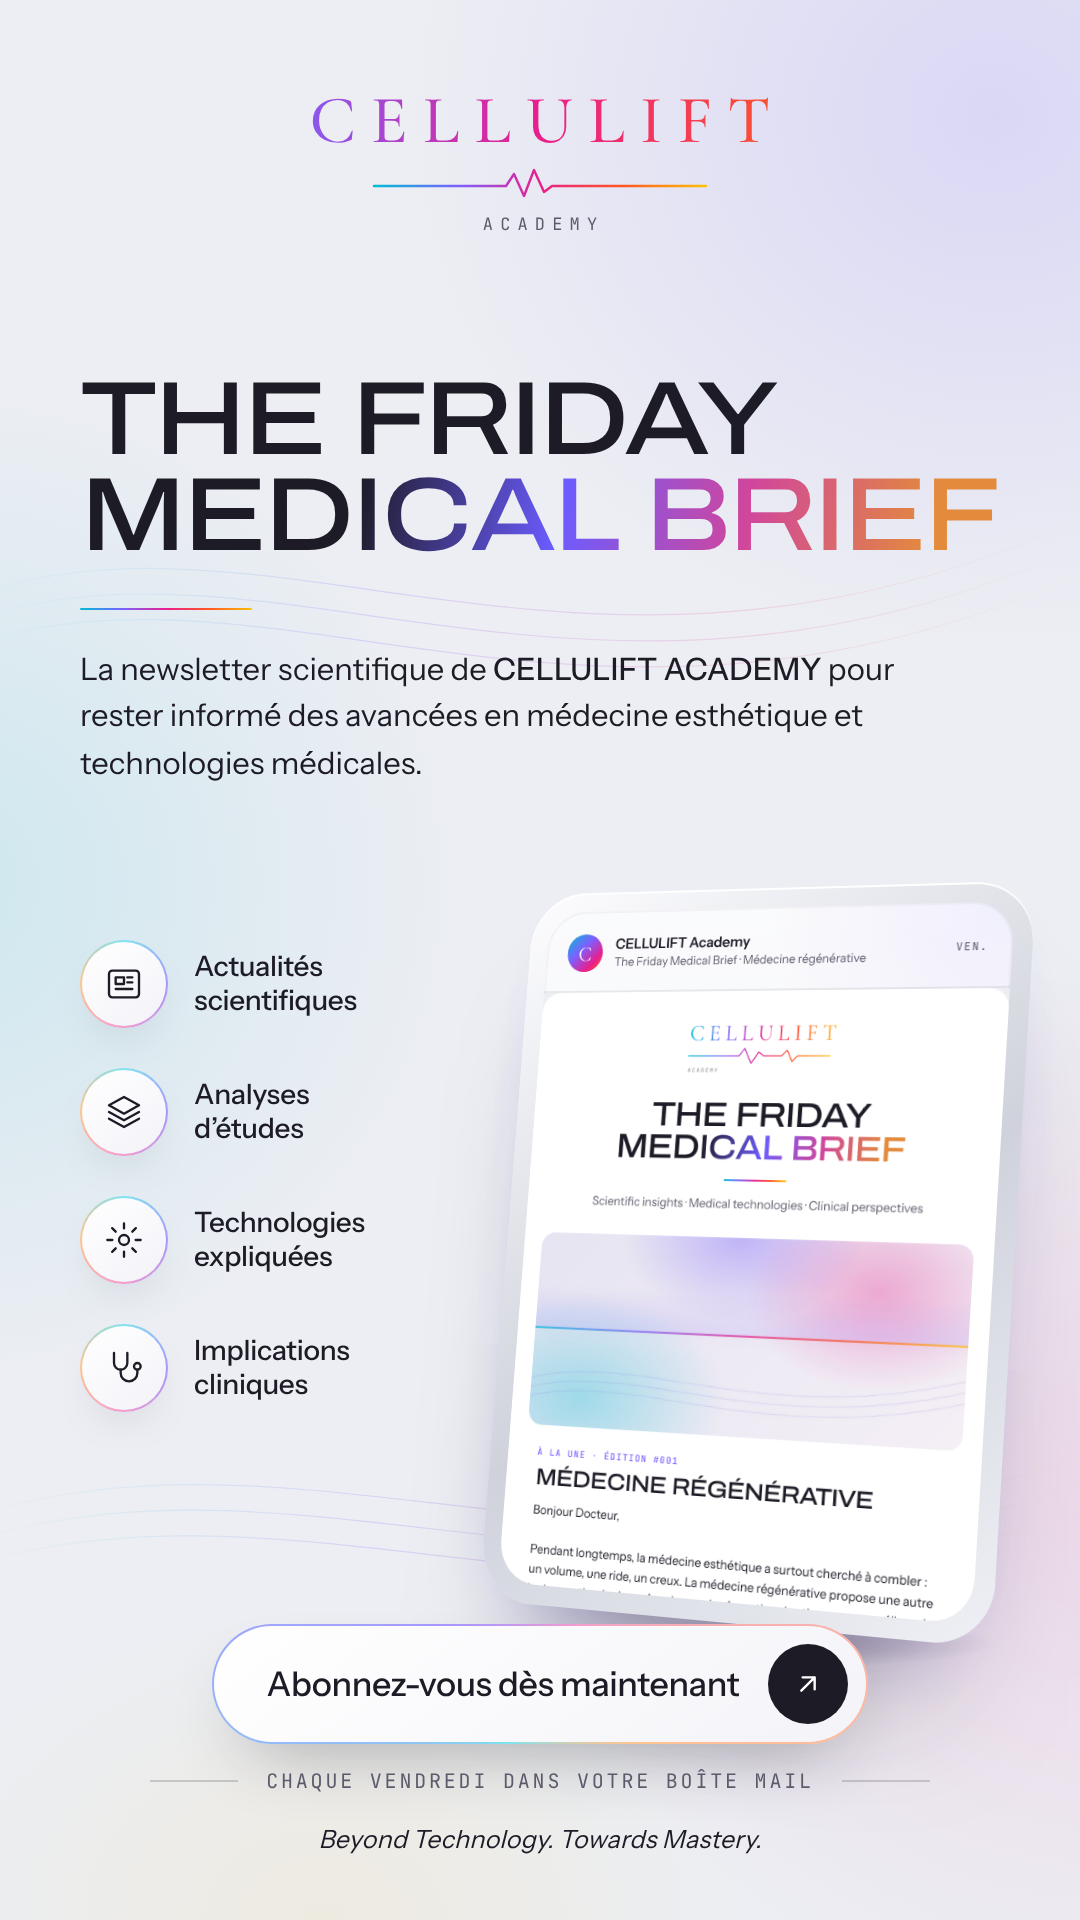
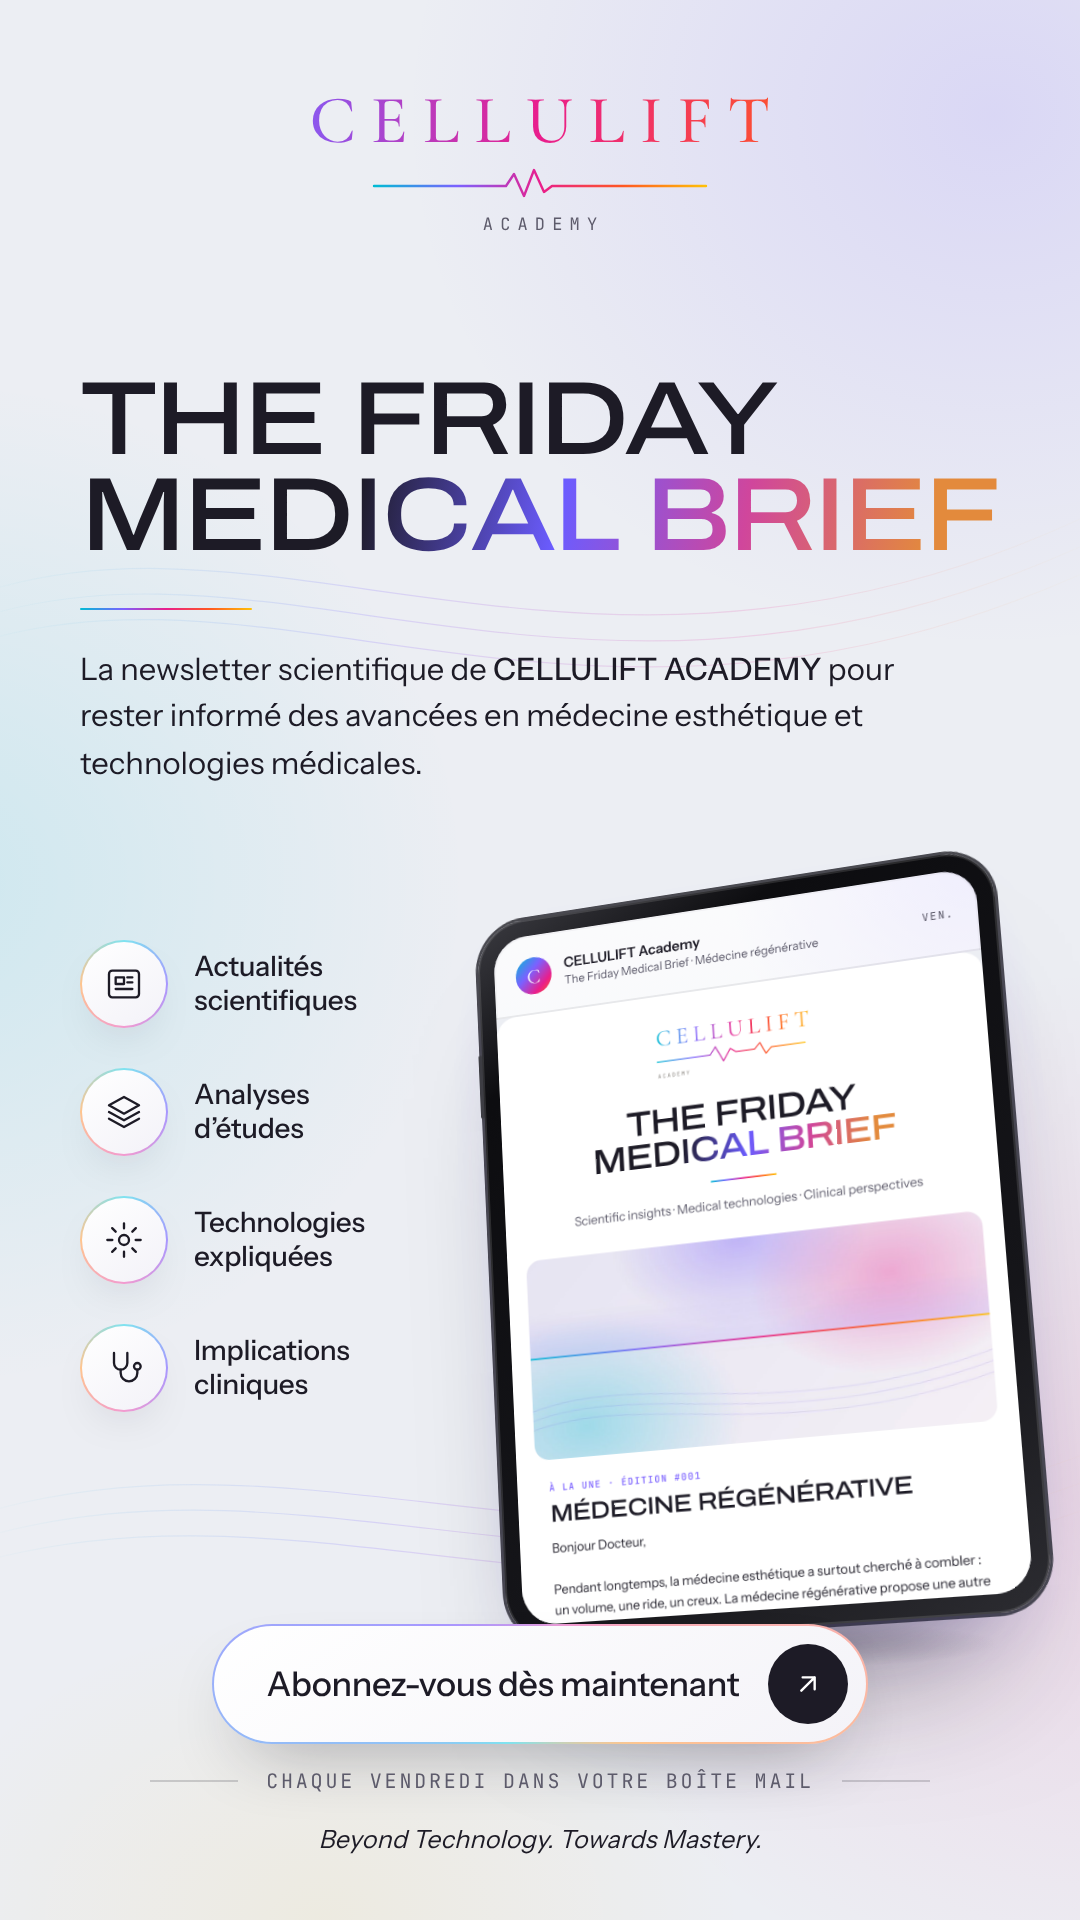
Newsletter : iPad noir incliné pour le visuel story, version Brevo du modèle (emplacements d'image)
Claude-Session: https://claude.ai/code/session_013WzSXnYZRENhXh8EE8VY2P

Changed region(s): [[0.4278, 0.4375, 0.9778, 0.875], [0.7333, 0.6875, 0.8556, 0.7188], [0.6417, 0.6875, 0.6722, 0.7188]]

diff --git a/academy/newsletter/email/friday-medical-brief-brevo.html b/academy/newsletter/email/friday-medical-brief-brevo.html
@@ -1,0 +1,182 @@
+<!doctype html>
+<html lang="fr" xmlns="http://www.w3.org/1999/xhtml" xmlns:v="urn:schemas-microsoft-com:vml" xmlns:o="urn:schemas-microsoft-com:office:office">
+<head>
+<meta charset="utf-8">
+<meta name="viewport" content="width=device-width, initial-scale=1">
+<meta http-equiv="X-UA-Compatible" content="IE=edge">
+<meta name="x-apple-disable-message-reformatting">
+<meta name="color-scheme" content="light only">
+<meta name="supported-color-schemes" content="light only">
+<title>The Friday Medical Brief · Édition #001 · Médecine régénérative</title>
+<!--[if mso]><noscript><xml><o:OfficeDocumentSettings><o:PixelsPerInch>96</o:PixelsPerInch></o:OfficeDocumentSettings></xml></noscript><![endif]-->
+<link href="https://fonts.googleapis.com/css2?family=Archivo:wdth,wght@100..125,500&family=Instrument+Sans:wght@300;400;500;600&family=JetBrains+Mono:wght@500&display=swap" rel="stylesheet">
+<style>
+  body,table,td,a{-webkit-text-size-adjust:100%;-ms-text-size-adjust:100%}
+  table,td{mso-table-lspace:0;mso-table-rspace:0;border-collapse:collapse}
+  img{border:0;outline:none;text-decoration:none;-ms-interpolation-mode:bicubic;display:block}
+  body{margin:0!important;padding:0!important;width:100%!important;background:#ECEEF3}
+  a{color:#1D1B26}
+  .sans{font-family:'Instrument Sans',Helvetica,Arial,sans-serif}
+  .disp{font-family:'Archivo','Arial Narrow',Arial,sans-serif;font-stretch:118%;text-transform:uppercase;letter-spacing:-.035em}
+  .mono{font-family:'JetBrains Mono',Consolas,'Courier New',monospace;text-transform:uppercase;letter-spacing:.14em}
+  .iris{background:linear-gradient(100deg,#1D1B26 0%,#1D1B26 30%,#6B5CFF 52%,#D0469C 72%,#E38A3C 92%);-webkit-background-clip:text;background-clip:text;color:transparent!important}
+  @media screen and (max-width:620px){
+    .container{width:100%!important}
+    .px{padding-left:22px!important;padding-right:22px!important}
+    .h1{font-size:34px!important}
+    .h2{font-size:22px!important}
+    .stack,.stack td{display:block!important;width:100%!important}
+    .hero img{width:100%!important;height:auto!important}
+  }
+</style>
+</head>
+<body style="margin:0;padding:0;background:#ECEEF3">
+
+<!-- Pré-en-tête (texte d'aperçu dans la boîte de réception) -->
+<div style="display:none;max-height:0;overflow:hidden;mso-hide:all;font-size:1px;line-height:1px;color:#ECEEF3">
+  Médecine régénérative&nbsp;: stimuler plutôt que combler. Actualités, analyse d’étude et implications cliniques.&#847;&zwnj;&nbsp;&#847;&zwnj;&nbsp;&#847;&zwnj;&nbsp;&#847;&zwnj;&nbsp;
+</div>
+
+<table role="presentation" width="100%" cellpadding="0" cellspacing="0" border="0" bgcolor="#ECEEF3" style="background:#ECEEF3">
+<tr><td align="center" style="padding:24px 12px 40px">
+
+  <table role="presentation" class="container" width="600" cellpadding="0" cellspacing="0" border="0" style="width:600px;max-width:600px">
+
+    <!-- Lien miroir -->
+    <tr><td align="center" class="sans" style="padding:0 0 16px;font-size:11px;color:#5D5B6B">
+      Édition #001 · Vendredi &nbsp;·&nbsp; <a href="{{ mirror }}" style="color:#5D5B6B;text-decoration:underline">Voir dans le navigateur</a>
+    </td></tr>
+
+    <!-- Carte principale -->
+    <tr><td bgcolor="#FFFFFF" style="background:#FFFFFF;border-radius:24px">
+      <table role="presentation" width="100%" cellpadding="0" cellspacing="0" border="0">
+
+        <!-- Logo -->
+        <tr><td align="center" style="padding:34px 24px 6px">
+          <img src="" width="200" height="72" alt="CELLULIFT Academy" style="width:200px;height:auto">
+        </td></tr>
+
+        <!-- Titre -->
+        <tr><td class="px" align="center" style="padding:22px 48px 0">
+          <div class="disp h1" style="font-family:'Archivo','Arial Narrow',Arial,sans-serif;font-stretch:118%;font-weight:500;text-transform:uppercase;letter-spacing:-.035em;font-size:42px;line-height:.95;color:#1D1B26">
+            The Friday<br><span class="iris" style="color:#6B5CFF">Medical Brief</span>
+          </div>
+        </td></tr>
+        <tr><td align="center" style="padding:18px 0 0">
+          <img src="" width="80" height="2" alt="" style="width:80px;height:2px">
+        </td></tr>
+        <tr><td class="px sans" align="center" style="padding:16px 64px 30px;font-family:'Instrument Sans',Helvetica,Arial,sans-serif;font-weight:300;font-size:15px;line-height:1.55;color:#5D5B6B">
+          Scientific insights · Medical technologies · Clinical perspectives
+        </td></tr>
+
+        <!-- Image à la une -->
+        <tr><td class="hero" style="padding:0 24px">
+          <img src="" width="552" height="239" alt="" style="width:552px;height:auto;border-radius:18px">
+        </td></tr>
+
+        <!-- À la une -->
+        <tr><td class="px" style="padding:26px 40px 0">
+          <div class="mono" style="font-family:'JetBrains Mono',Consolas,monospace;text-transform:uppercase;letter-spacing:.14em;font-size:11px;font-weight:500;color:#7B61FF">À la une · Édition #001</div>
+          <div class="disp h2" style="font-family:'Archivo','Arial Narrow',Arial,sans-serif;font-stretch:118%;font-weight:500;text-transform:uppercase;letter-spacing:-.03em;font-size:28px;line-height:1;color:#1D1B26;padding-top:10px">Médecine régénérative</div>
+          <div class="sans" style="font-family:'Instrument Sans',Helvetica,Arial,sans-serif;font-weight:300;font-size:15px;line-height:1.6;color:#1D1B26;padding-top:14px">
+            Bonjour {{ contact.PRENOM | default : "Docteur" }},<br><br>
+            Pendant longtemps, la médecine esthétique a surtout cherché à combler&nbsp;: un volume, une ride, un creux. La médecine régénérative propose une autre logique&nbsp;: stimuler les mécanismes de réparation des tissus pour améliorer la qualité de la peau elle-même.<br><br>Cette semaine, nous faisons le point sur ce que recouvre vraiment ce terme, sur ce que disent les études et sur ce que cela change dans votre consultation.
+          </div>
+        </td></tr>
+        <tr><td class="px" style="padding:22px 40px 34px">
+          <!-- Bouton principal -->
+          <table role="presentation" cellpadding="0" cellspacing="0" border="0"><tr>
+            <td bgcolor="#1D1B26" style="border-radius:999px;background:#1D1B26">
+              <!--[if mso]><v:roundrect xmlns:v="urn:schemas-microsoft-com:vml" href="https://cellulift.ma" style="height:46px;v-text-anchor:middle;width:220px" arcsize="50%" fillcolor="#1D1B26" stroke="f"><center style="color:#ffffff;font-family:Arial;font-size:15px">Lire le dossier ↗</center></v:roundrect><![endif]-->
+              <!--[if !mso]><!-- --><a href="https://cellulift.ma" class="sans" style="display:inline-block;padding:14px 26px;font-family:'Instrument Sans',Helvetica,Arial,sans-serif;font-size:15px;font-weight:500;color:#FFFFFF;text-decoration:none;border-radius:999px">Lire le dossier &nbsp;↗</a><!--<![endif]-->
+            </td>
+          </tr></table>
+        </td></tr>
+
+        <!-- Séparateur -->
+        <tr><td style="padding:0 40px"><div style="height:1px;line-height:1px;font-size:1px;background:#ECEEF3">&nbsp;</div></td></tr>
+
+        <!-- Rubriques -->
+        <tr><td class="px" style="padding:30px 40px 6px">
+          <div class="mono" style="font-family:'JetBrains Mono',Consolas,monospace;text-transform:uppercase;letter-spacing:.14em;font-size:11px;font-weight:500;color:#5D5B6B">Dans ce brief</div>
+        </td></tr>
+
+        <!-- Rubrique 1 -->
+        <tr><td class="px" style="padding:18px 40px 0">
+          <table role="presentation" width="100%" cellpadding="0" cellspacing="0" border="0"><tr>
+            <td width="60" valign="top" style="width:60px;padding-top:2px"><img src="" width="48" height="48" alt="" style="width:48px;height:48px"></td>
+            <td valign="top" class="sans" style="font-family:'Instrument Sans',Helvetica,Arial,sans-serif">
+              <div class="mono" style="font-family:'JetBrains Mono',Consolas,monospace;text-transform:uppercase;letter-spacing:.14em;font-size:10px;font-weight:500;color:#00A3B8">Actualités scientifiques</div>
+              <div style="font-size:17px;font-weight:600;letter-spacing:-.01em;line-height:1.3;color:#1D1B26;padding-top:6px">Exosomes en esthétique&nbsp;: où en est le cadre réglementaire&nbsp;?</div>
+              <div style="font-size:14px;font-weight:300;line-height:1.55;color:#5D5B6B;padding-top:6px">Très présents dans la communication des laboratoires, les exosomes ne bénéficient pas du même statut selon les pays. Ce qu’il faut vérifier avant d’en parler à vos patients.</div>
+              <a href="https://cellulift.ma" style="display:inline-block;padding-top:8px;font-size:13px;font-weight:500;color:#1D1B26;text-decoration:none">Lire la suite →</a>
+            </td>
+          </tr></table>
+        </td></tr>
+
+        <!-- Rubrique 2 -->
+        <tr><td class="px" style="padding:24px 40px 0">
+          <table role="presentation" width="100%" cellpadding="0" cellspacing="0" border="0"><tr>
+            <td width="60" valign="top" style="width:60px;padding-top:2px"><img src="" width="48" height="48" alt="" style="width:48px;height:48px"></td>
+            <td valign="top" class="sans" style="font-family:'Instrument Sans',Helvetica,Arial,sans-serif">
+              <div class="mono" style="font-family:'JetBrains Mono',Consolas,monospace;text-transform:uppercase;letter-spacing:.14em;font-size:10px;font-weight:500;color:#7B61FF">Analyse d’étude</div>
+              <div style="font-size:17px;font-weight:600;letter-spacing:-.01em;line-height:1.3;color:#1D1B26;padding-top:6px">PRP et qualité de peau&nbsp;: que valent les essais publiés&nbsp;?</div>
+              <div style="font-size:14px;font-weight:300;line-height:1.55;color:#5D5B6B;padding-top:6px">Taille des échantillons, protocoles de préparation, critères d’évaluation&nbsp;: notre lecture critique, avec la référence complète de l’étude.</div>
+              <a href="https://cellulift.ma" style="display:inline-block;padding-top:8px;font-size:13px;font-weight:500;color:#1D1B26;text-decoration:none">Lire l’analyse →</a>
+            </td>
+          </tr></table>
+        </td></tr>
+
+        <!-- Rubrique 3 -->
+        <tr><td class="px" style="padding:24px 40px 0">
+          <table role="presentation" width="100%" cellpadding="0" cellspacing="0" border="0"><tr>
+            <td width="60" valign="top" style="width:60px;padding-top:2px"><img src="" width="48" height="48" alt="" style="width:48px;height:48px"></td>
+            <td valign="top" class="sans" style="font-family:'Instrument Sans',Helvetica,Arial,sans-serif">
+              <div class="mono" style="font-family:'JetBrains Mono',Consolas,monospace;text-transform:uppercase;letter-spacing:.14em;font-size:10px;font-weight:500;color:#D0469C">Technologie expliquée</div>
+              <div style="font-size:17px;font-weight:600;letter-spacing:-.01em;line-height:1.3;color:#1D1B26;padding-top:6px">Du tube à l’injection&nbsp;: ce que fait la centrifugation</div>
+              <div style="font-size:14px;font-weight:300;line-height:1.55;color:#5D5B6B;padding-top:6px">Comment la centrifugation sépare le plasma riche en plaquettes, et pourquoi la vitesse, la durée et le type de tube changent le résultat.</div>
+              <a href="https://cellulift.ma" style="display:inline-block;padding-top:8px;font-size:13px;font-weight:500;color:#1D1B26;text-decoration:none">Comprendre →</a>
+            </td>
+          </tr></table>
+        </td></tr>
+
+        <!-- Rubrique 4 -->
+        <tr><td class="px" style="padding:24px 40px 36px">
+          <table role="presentation" width="100%" cellpadding="0" cellspacing="0" border="0"><tr>
+            <td width="60" valign="top" style="width:60px;padding-top:2px"><img src="" width="48" height="48" alt="" style="width:48px;height:48px"></td>
+            <td valign="top" class="sans" style="font-family:'Instrument Sans',Helvetica,Arial,sans-serif">
+              <div class="mono" style="font-family:'JetBrains Mono',Consolas,monospace;text-transform:uppercase;letter-spacing:.14em;font-size:10px;font-weight:500;color:#E3743C">Implications cliniques</div>
+              <div style="font-size:17px;font-weight:600;letter-spacing:-.01em;line-height:1.3;color:#1D1B26;padding-top:6px">Proposer un protocole régénératif&nbsp;: les bonnes questions</div>
+              <div style="font-size:14px;font-weight:300;line-height:1.55;color:#5D5B6B;padding-top:6px">Indications, contre-indications, délai d’apparition des résultats&nbsp;: comment poser des attentes réalistes avec votre patient.</div>
+              <a href="https://cellulift.ma" style="display:inline-block;padding-top:8px;font-size:13px;font-weight:500;color:#1D1B26;text-decoration:none">En pratique →</a>
+            </td>
+          </tr></table>
+        </td></tr>
+
+      </table>
+    </td></tr>
+
+    <!-- Bloc signature -->
+    <tr><td style="padding:16px 0 0">
+      <table role="presentation" width="100%" cellpadding="0" cellspacing="0" border="0" bgcolor="#F6F7FA" style="background:#F6F7FA;border-radius:24px;border-collapse:separate">
+        <tr><td class="px" align="center" style="padding:30px 40px">
+          <div class="sans" style="font-family:'Instrument Sans',Helvetica,Arial,sans-serif;font-size:17px;font-style:italic;color:#1D1B26">Beyond Technology. Towards Mastery.</div>
+          <div class="mono" style="font-family:'JetBrains Mono',Consolas,monospace;text-transform:uppercase;letter-spacing:.14em;font-size:10px;color:#5D5B6B;padding-top:10px">Chaque vendredi dans votre boîte mail</div>
+          <div class="sans" style="font-family:'Instrument Sans',Helvetica,Arial,sans-serif;font-size:14px;font-weight:300;color:#5D5B6B;padding-top:16px">Un confrère pourrait apprécier ce brief&nbsp;? <a href="https://cellulift.ma" style="color:#1D1B26;font-weight:500">Transférez-le-lui</a>.</div>
+        </td></tr>
+      </table>
+    </td></tr>
+
+    <!-- Pied de page -->
+    <tr><td class="px sans" align="center" style="padding:28px 40px 0;font-family:'Instrument Sans',Helvetica,Arial,sans-serif;font-size:11px;line-height:1.6;color:#5D5B6B">
+      CELLULIFT Academy · [Adresse postale] · <a href="https://cellulift.ma" style="color:#5D5B6B">cellulift.ma</a><br>
+      Vous recevez cet e-mail car vous êtes inscrit(e) à The Friday Medical Brief.<br>
+      Contenu d’information scientifique destiné aux professionnels de santé&nbsp;; il ne remplace pas l’avis médical.<br>
+      <a href="{{ unsubscribe }}" style="color:#5D5B6B;text-decoration:underline">Se désinscrire</a> &nbsp;·&nbsp; <a href="{{ update_profile }}" style="color:#5D5B6B;text-decoration:underline">Gérer mes préférences</a>
+    </td></tr>
+
+  </table>
+</td></tr>
+</table>
+</body>
+</html>

diff --git a/academy/newsletter/friday-medical-brief.html b/academy/newsletter/friday-medical-brief.html
@@ -64,11 +64,13 @@
 
   /* Tablette */
   .stage{position:absolute;top:430px;left:212px;width:330px;height:420px;perspective:1100px}
-  .tablet{position:absolute;left:28px;top:10px;width:270px;height:370px;border-radius:30px;padding:10px;
-    transform:rotateY(-20deg) rotateX(6deg) rotateZ(2deg);transform-origin:50% 50%;
-    background:linear-gradient(145deg,#fdfdff,#cfd2db 55%,#eef0f5);
-    box-shadow:0 50px 70px -40px rgba(29,27,38,.55),0 18px 40px -26px rgba(123,97,255,.45),inset 0 1px 0 #fff;}
-  .screen{position:relative;width:100%;height:100%;border-radius:21px;overflow:hidden;
+  .tablet{position:absolute;left:24px;top:6px;width:276px;height:376px;border-radius:26px;padding:9px;
+    transform:rotateY(-16deg) rotateX(8deg) rotateZ(-6deg);transform-origin:50% 50%;
+    background:linear-gradient(150deg,#3a3a40 0%,#0d0d10 18%,#151519 70%,#2c2c31 100%);
+    box-shadow:0 50px 70px -38px rgba(29,27,38,.6),0 18px 40px -26px rgba(123,97,255,.4),
+      inset 0 0 0 1px rgba(255,255,255,.12),0 0 0 1.5px #4a4a50;}
+  .tablet::after{content:"";position:absolute;left:-2px;top:70px;width:2px;height:34px;border-radius:2px;background:#3d3d43}
+  .screen{position:relative;width:100%;height:100%;border-radius:18px;overflow:hidden;
     background:
       radial-gradient(180px 160px at 100% 0%, rgba(123,97,255,.18), transparent 70%),
       radial-gradient(180px 160px at 0% 60%, rgba(0,188,212,.14), transparent 70%),
